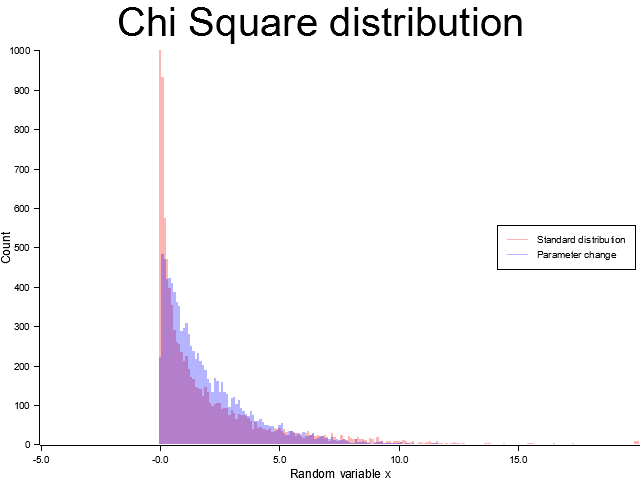
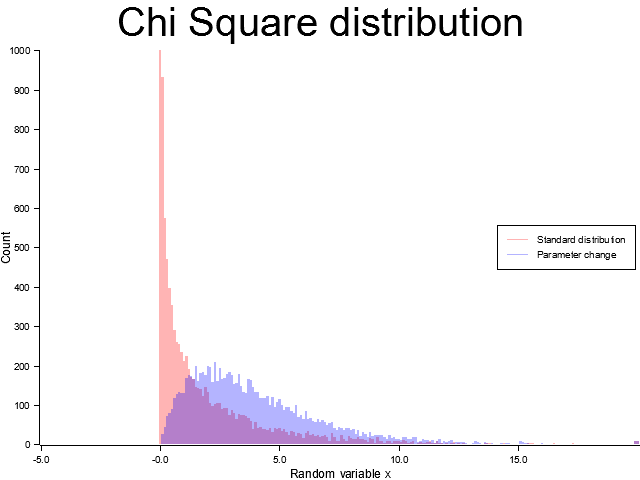
0.2.4g (修正) χ二乗分布の引数指定の修正

Changed region(s): [[0.25, 0.5312, 0.7188, 0.9375]]

diff --git a/src/distributions/chi_square.rs b/src/distributions/chi_square.rs
@@ -8,12 +8,11 @@ impl ChiSquare {
         let adjusted_seeds = crate::adjust_seeds!(seeds);
 
         Self {
-            xyzuv_alpha: create_state(adjusted_seeds[0]),
-            xyzuv0_alpha: create_state(adjusted_seeds[1]),
-            xyzuv1_alpha: create_state(adjusted_seeds[2]),
-            shape_alpha: 1_f64,
+            xyzuv_u_gamma: create_state(adjusted_seeds[0]),
+            xyzuv_n_0_gamma: create_state(adjusted_seeds[1]),
+            xyzuv_n_1_gamma: create_state(adjusted_seeds[2]),
 
-            xyzuv_beta: create_state(adjusted_seeds[3]),
+            xyzuv_uniform: create_state(adjusted_seeds[3]),
 
             degree_of_freedom: 1_f64,
         }
@@ -24,19 +23,19 @@ impl ChiSquare {
         // アルゴリズム 3.79
         if self.degree_of_freedom > 1_f64 {
             standard_gamma(
-                &mut self.xyzuv_alpha,
-                &mut self.xyzuv0_alpha,
-                &mut self.xyzuv1_alpha,
-                &self.shape_alpha,
+                &mut self.xyzuv_u_gamma,
+                &mut self.xyzuv_n_0_gamma,
+                &mut self.xyzuv_n_1_gamma,
+                &self.degree_of_freedom,
             ) * 2_f64
         } else {
             let y = standard_gamma(
-                &mut self.xyzuv_alpha,
-                &mut self.xyzuv0_alpha,
-                &mut self.xyzuv1_alpha,
+                &mut self.xyzuv_u_gamma,
+                &mut self.xyzuv_n_0_gamma,
+                &mut self.xyzuv_n_1_gamma,
                 &(3_f64 / 2_f64),
             ) * 2_f64;
-            let u = xorshift160_0_1_open(&mut self.xyzuv_beta);
+            let u = xorshift160_0_1_open(&mut self.xyzuv_uniform);
             u.powi(2) * y * 2_f64
         }
     }

diff --git a/src/lib.rs b/src/lib.rs
@@ -431,14 +431,13 @@ pub struct Erlang {
 /// println!("自由度 {}の乱数を生成する -> {}", degree_of_freedom, chi_square.sample());
 /// ```
 pub struct ChiSquare {
-    xyzuv_alpha: [u32; 5],  // 状態変数
-    xyzuv0_alpha: [u32; 5], // 状態変数
-    xyzuv1_alpha: [u32; 5], // 状態変数
-    shape_alpha: f64,
+    xyzuv_u_gamma: [u32; 5],     // 状態変数
+    xyzuv_n_0_gamma: [u32; 5], // 状態変数
+    xyzuv_n_1_gamma: [u32; 5],    // 状態変数
 
-    xyzuv_beta: [u32; 5], // 状態変数
+    xyzuv_uniform: [u32; 5], // 状態変数
 
-    degree_of_freedom: f64, // 形状母数
+    degree_of_freedom: f64, // 形状母数 r ∈ N
 }
 
 /// χ分布
